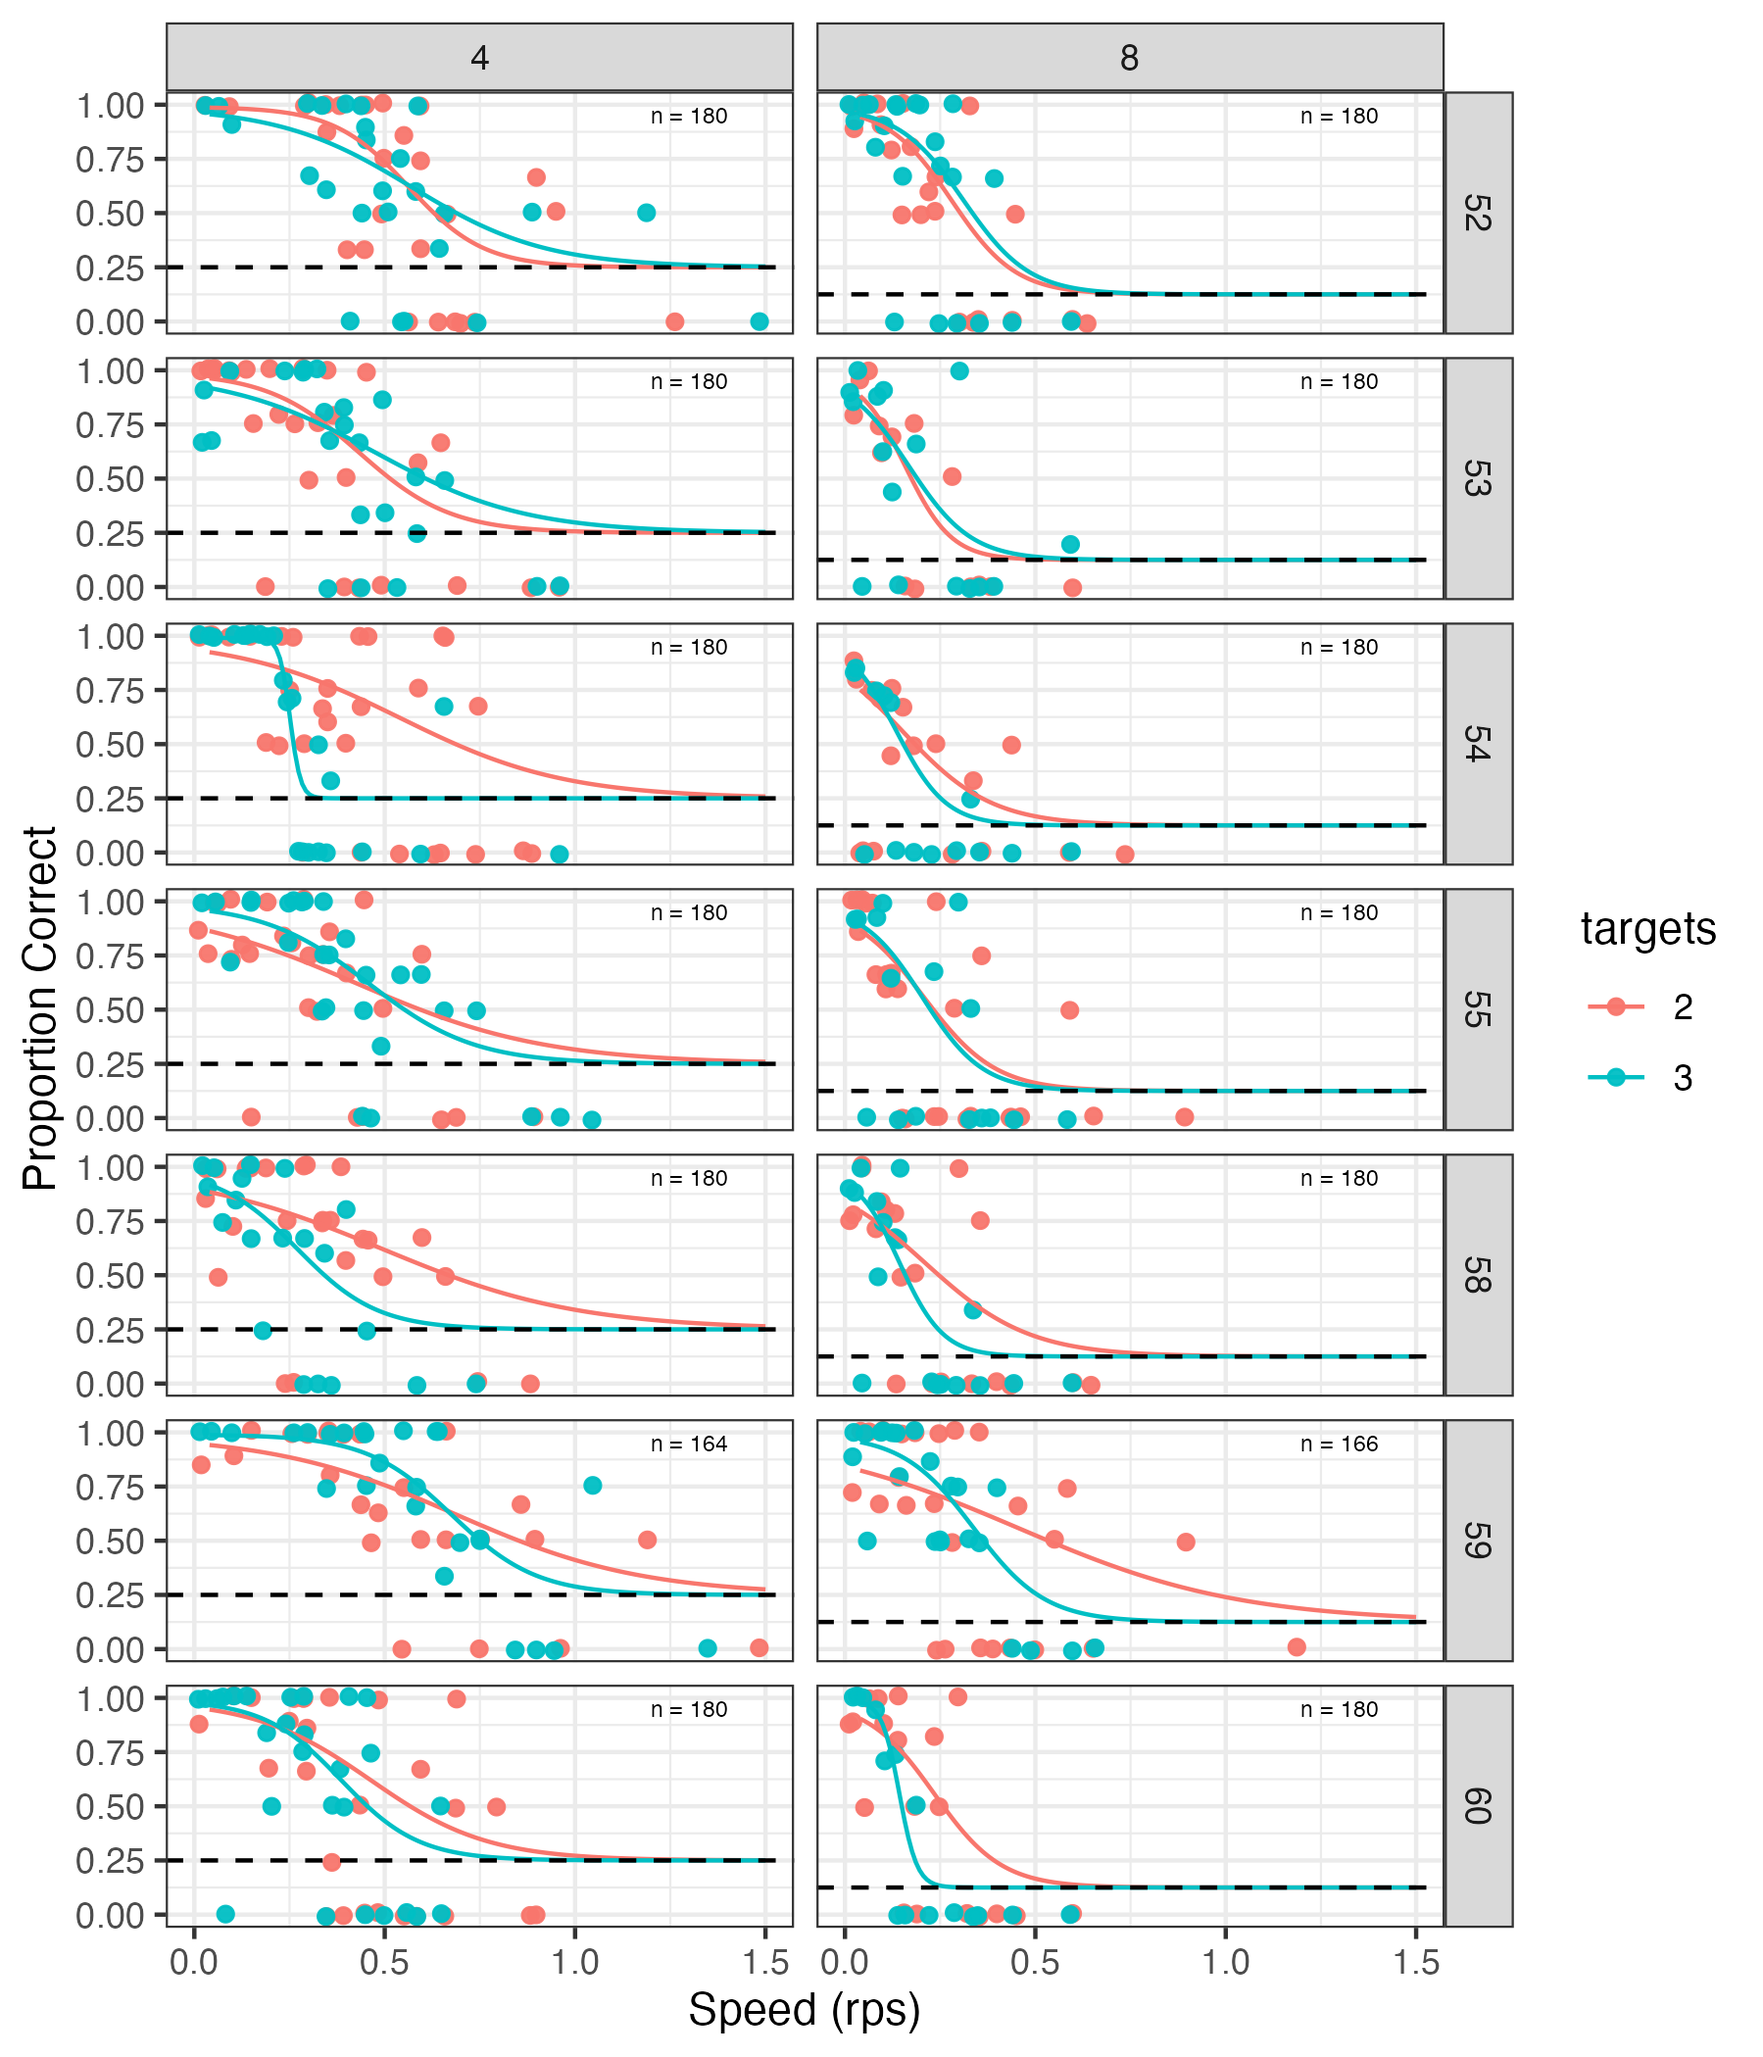
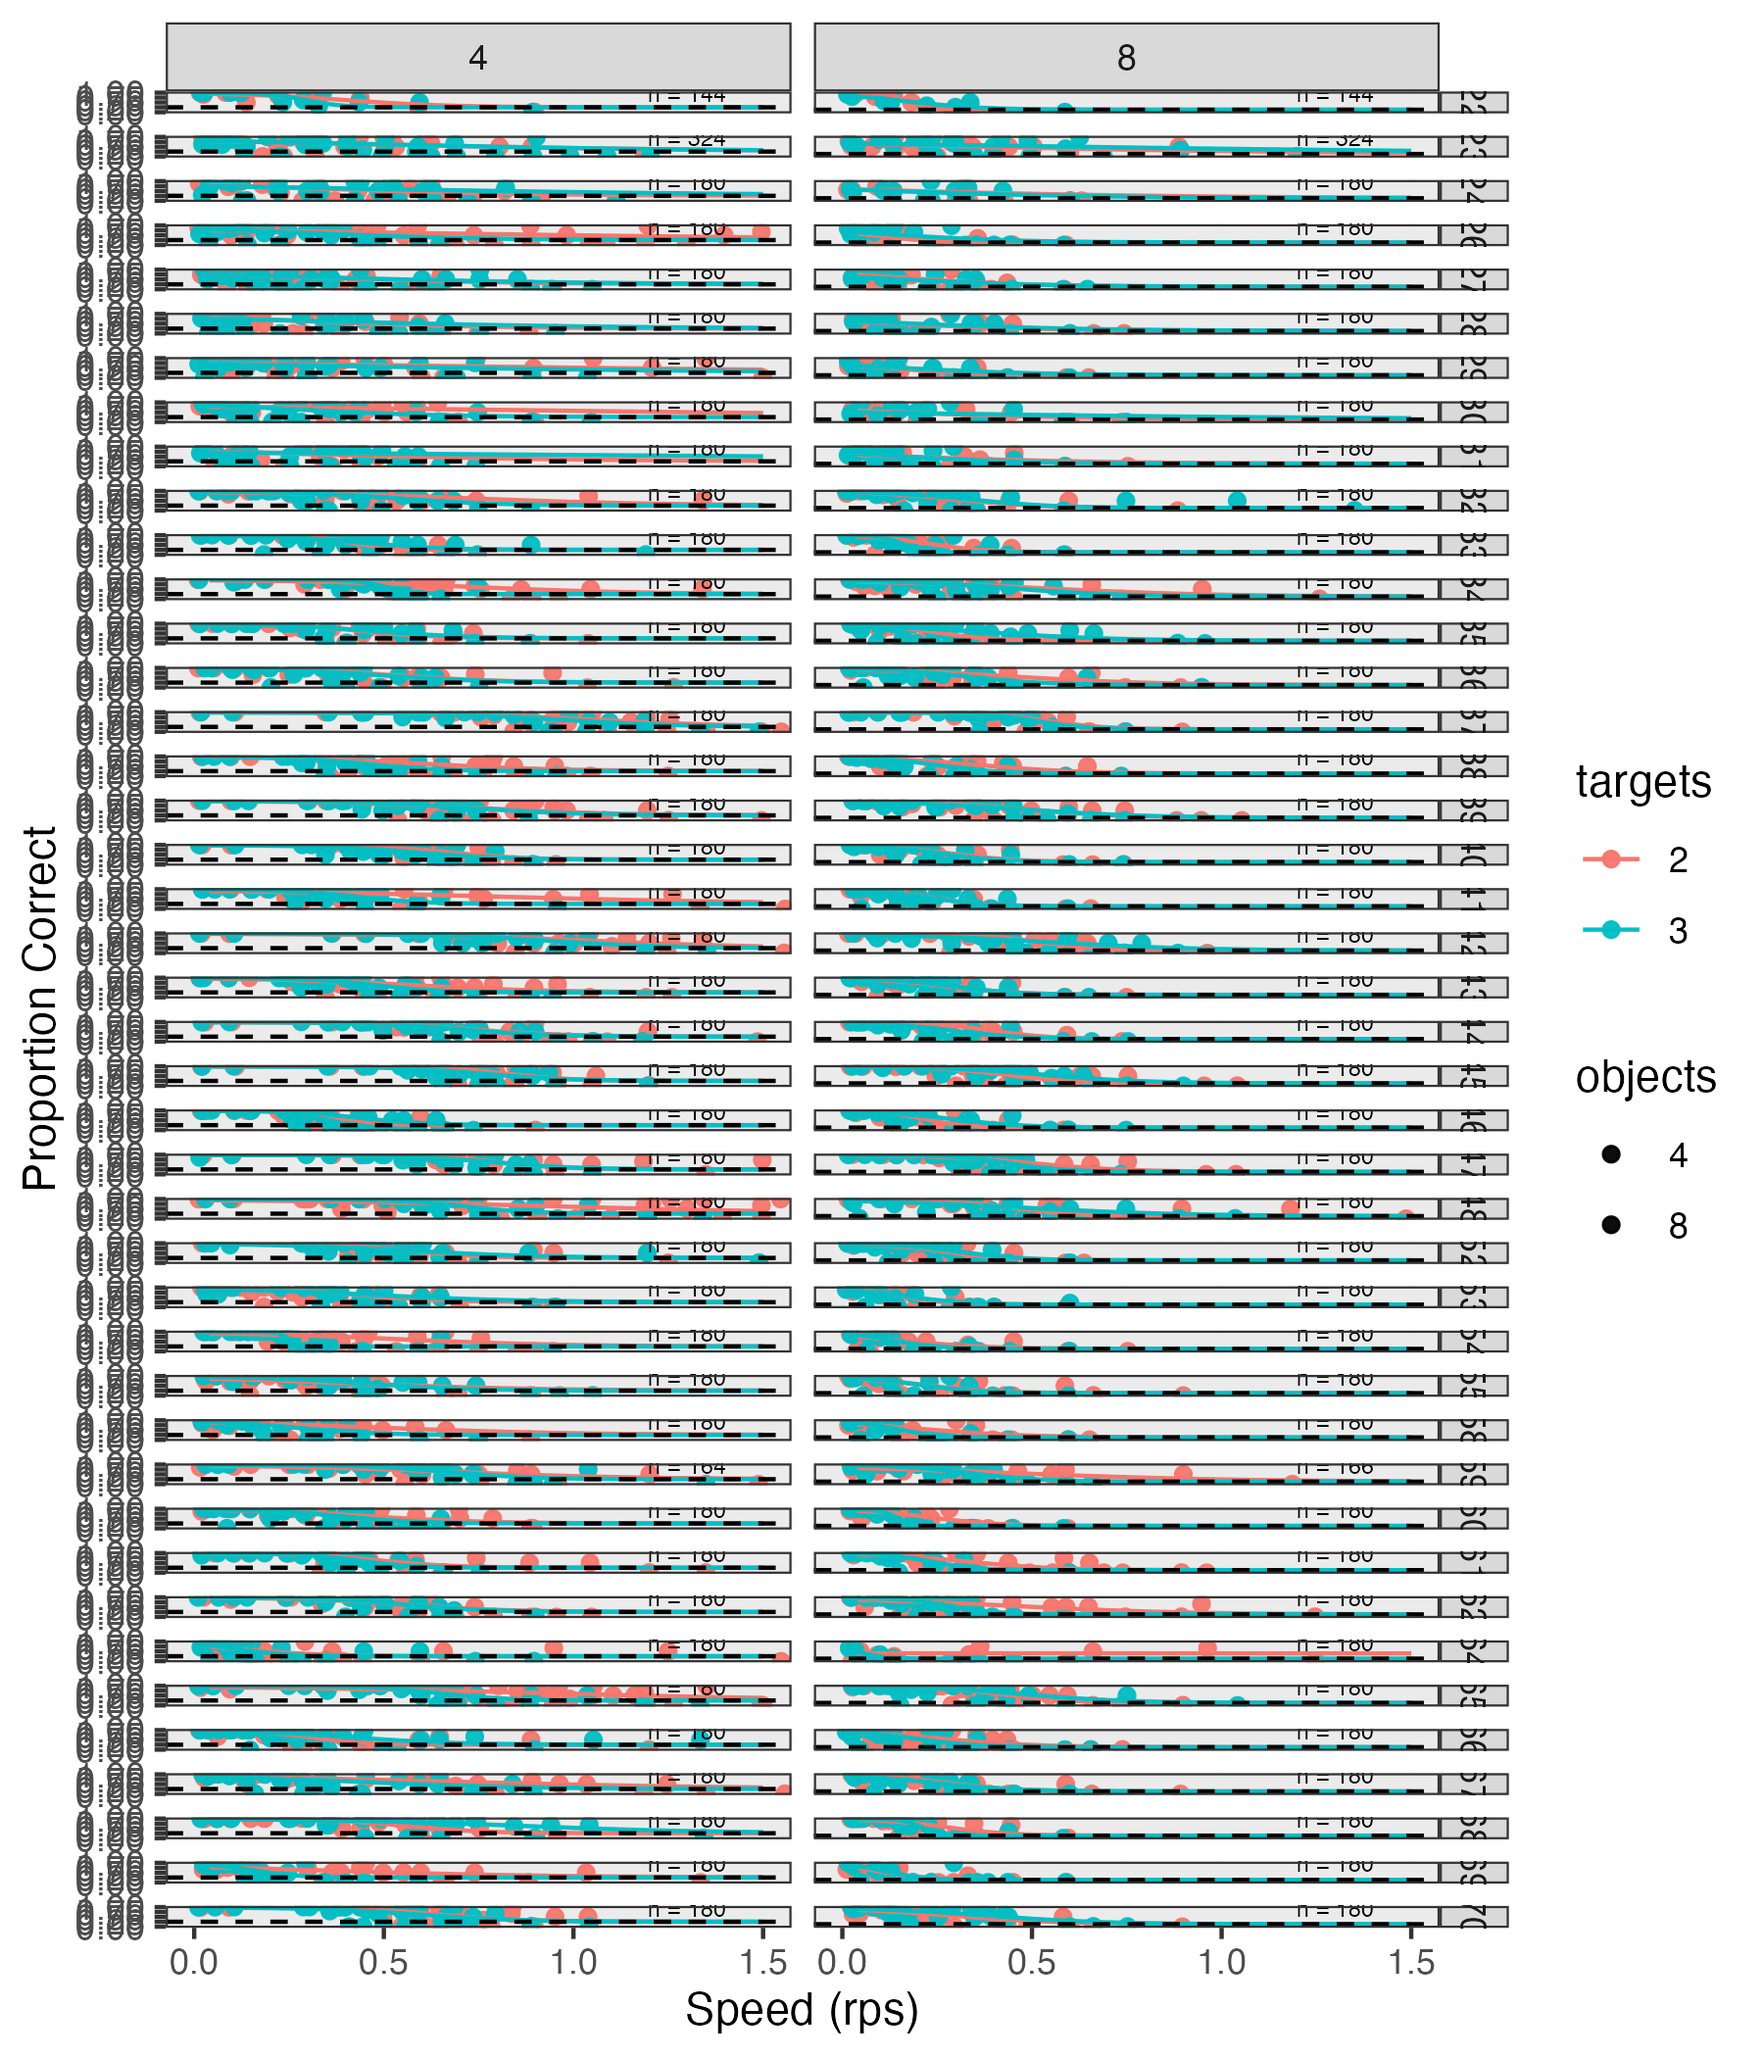
why is it losing part of the psychometric curve

Changed region(s): [[0.0311, 0.0, 0.8716, 0.9909], [0.9027, 0.3716, 0.965, 0.5264]]

diff --git a/analysis/README.md b/analysis/README.md
@@ -15,7 +15,10 @@ Old temporal frequency versus speed analyses can be found in https://github.com/
 
 I think with brglm, it doesn't support custom link function, so I scale the y's from guessing->(1-lapseRate) to 0 to 1. But then some of the data is actually below guessing and above 1-lapseRate, and because in logistic regression the y's can't be greater than 1 or below 0, I truncate those, which is not good. So need to switch to non-brglm so can use custom link function, and need to then use logit_link_private.
 
-On line 35 of analyzeMakeReadyForPlot, line 35 set initialMethod to "glmCustomlink" 
+On line 35 of analyzeMakeReadyForPlot, line 35 set initialMethod to "glmCustomlink". Works , only thing is not a constrained fit. Thus, when the participant does poorly at slow speeds, the fit can accommodate that with either shallow slope or with low threshold. Thus:
+    * the lapseRate does not actually mean what it says on the tin. This issue doesn't arise in most psychophysics because performance gets better with large values, not worse, with no actual bound. 
+    * The curve fit may not reach the threshold
+
 
 ## Newer method?
 
